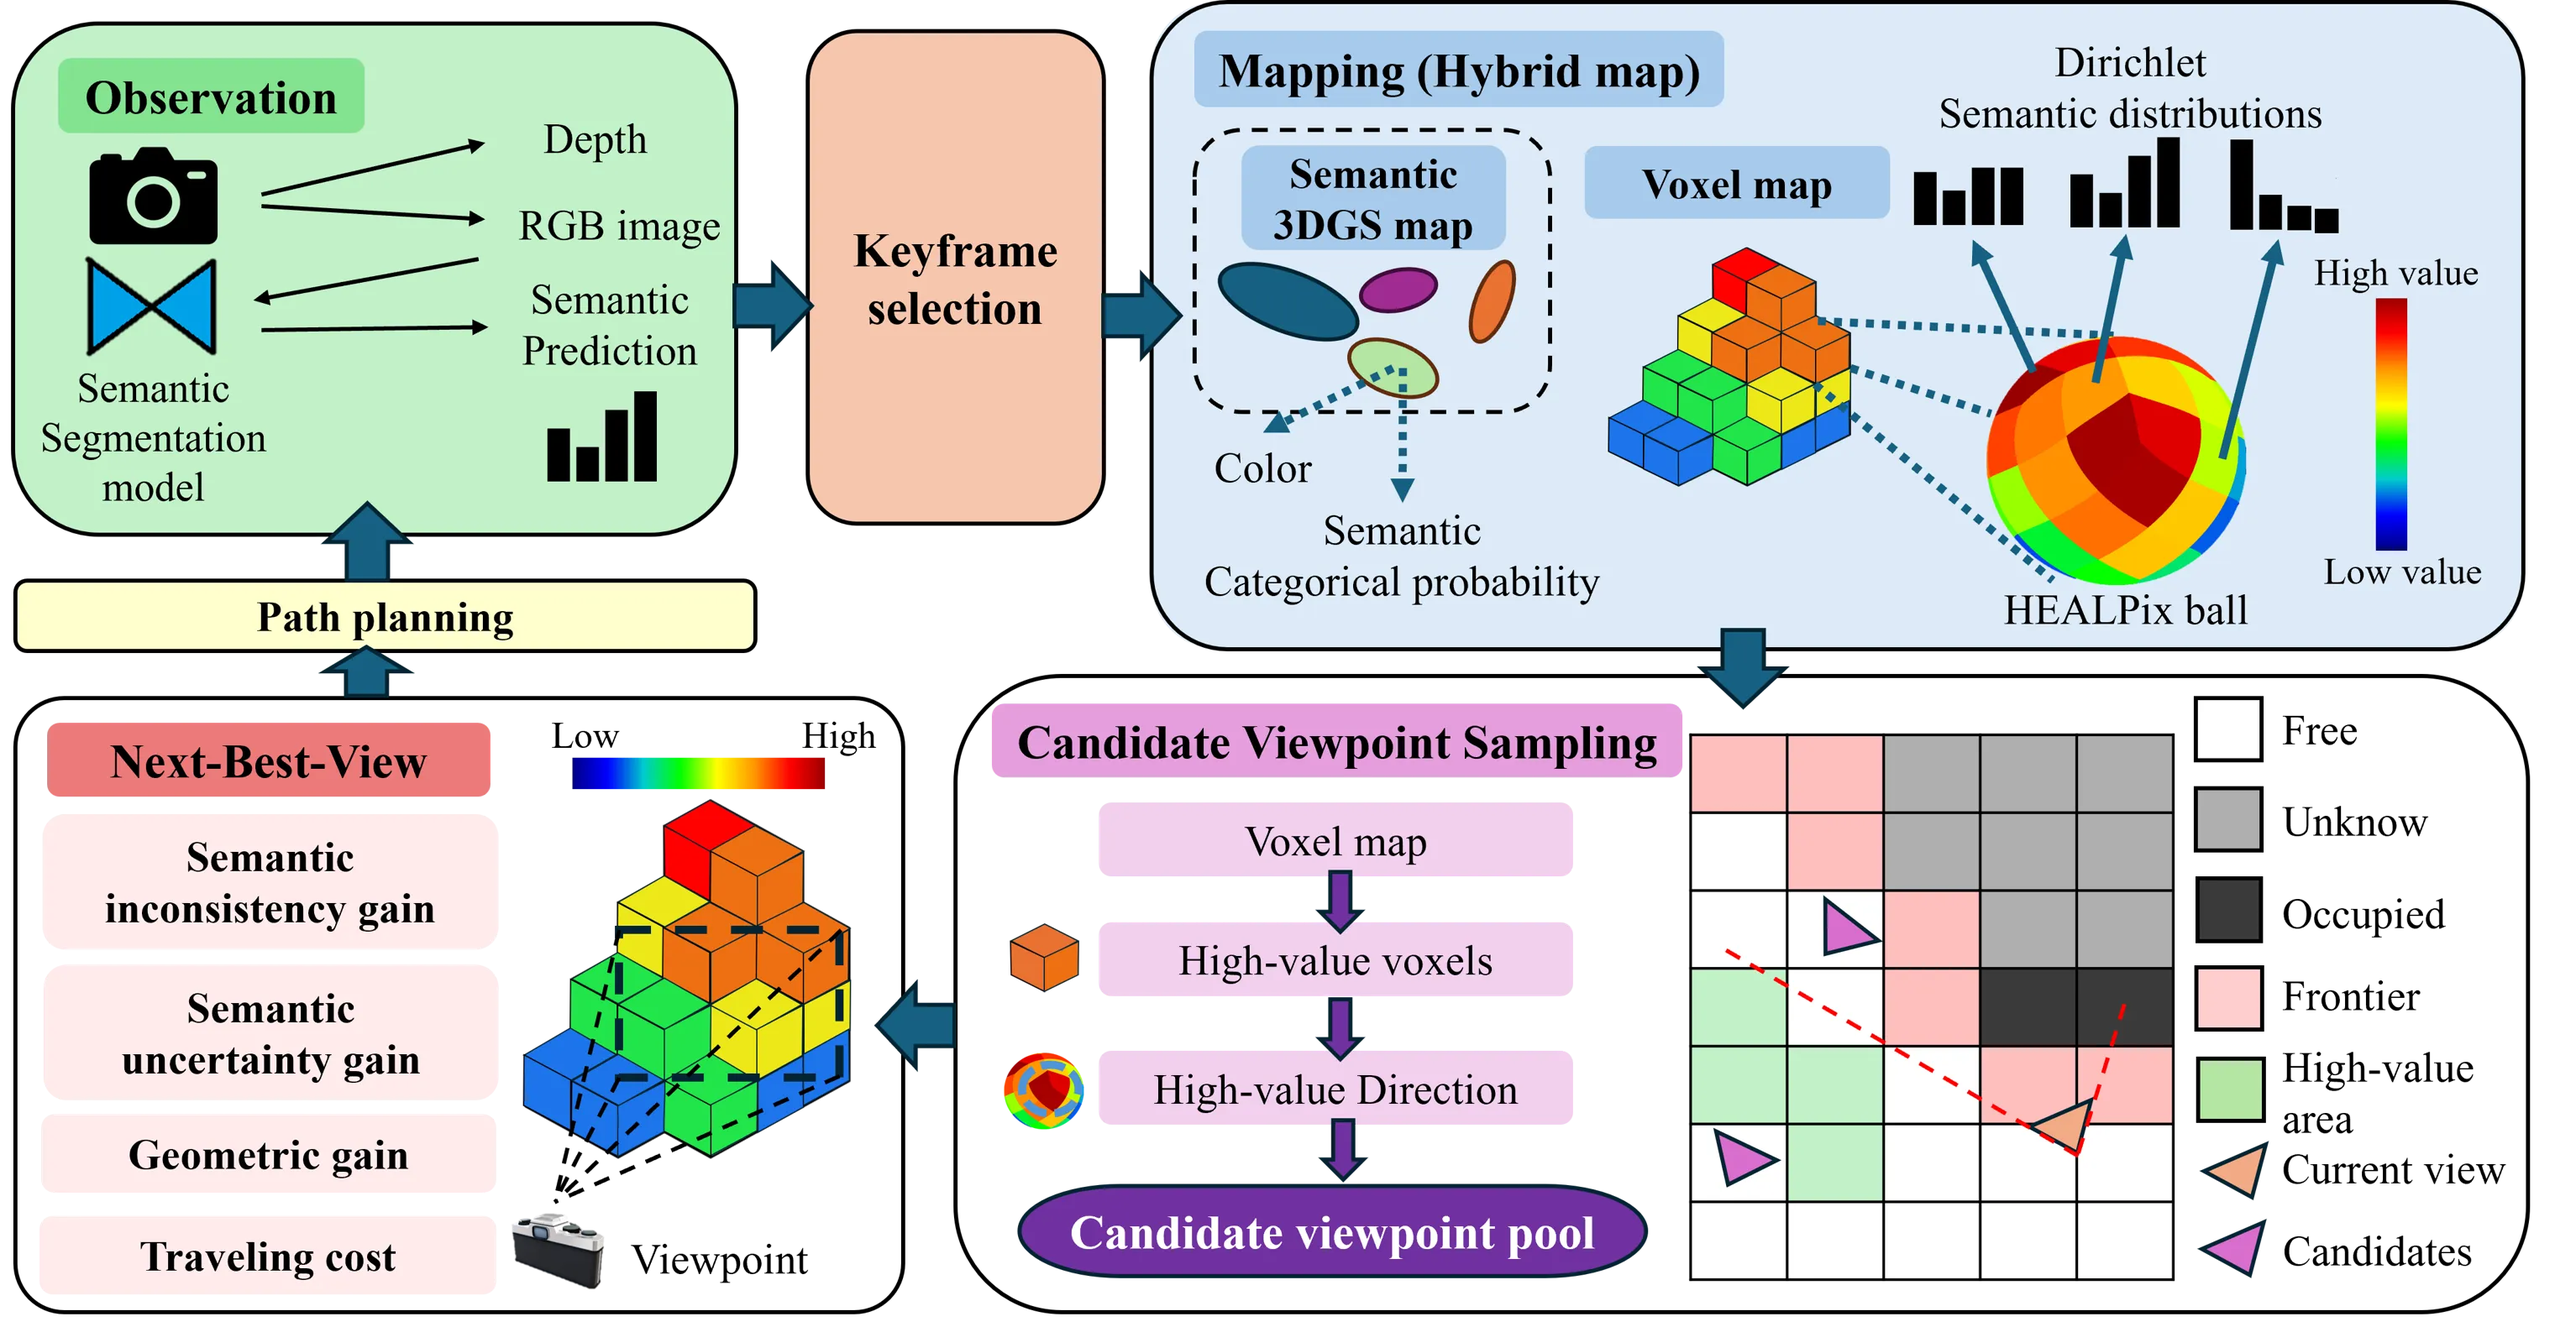
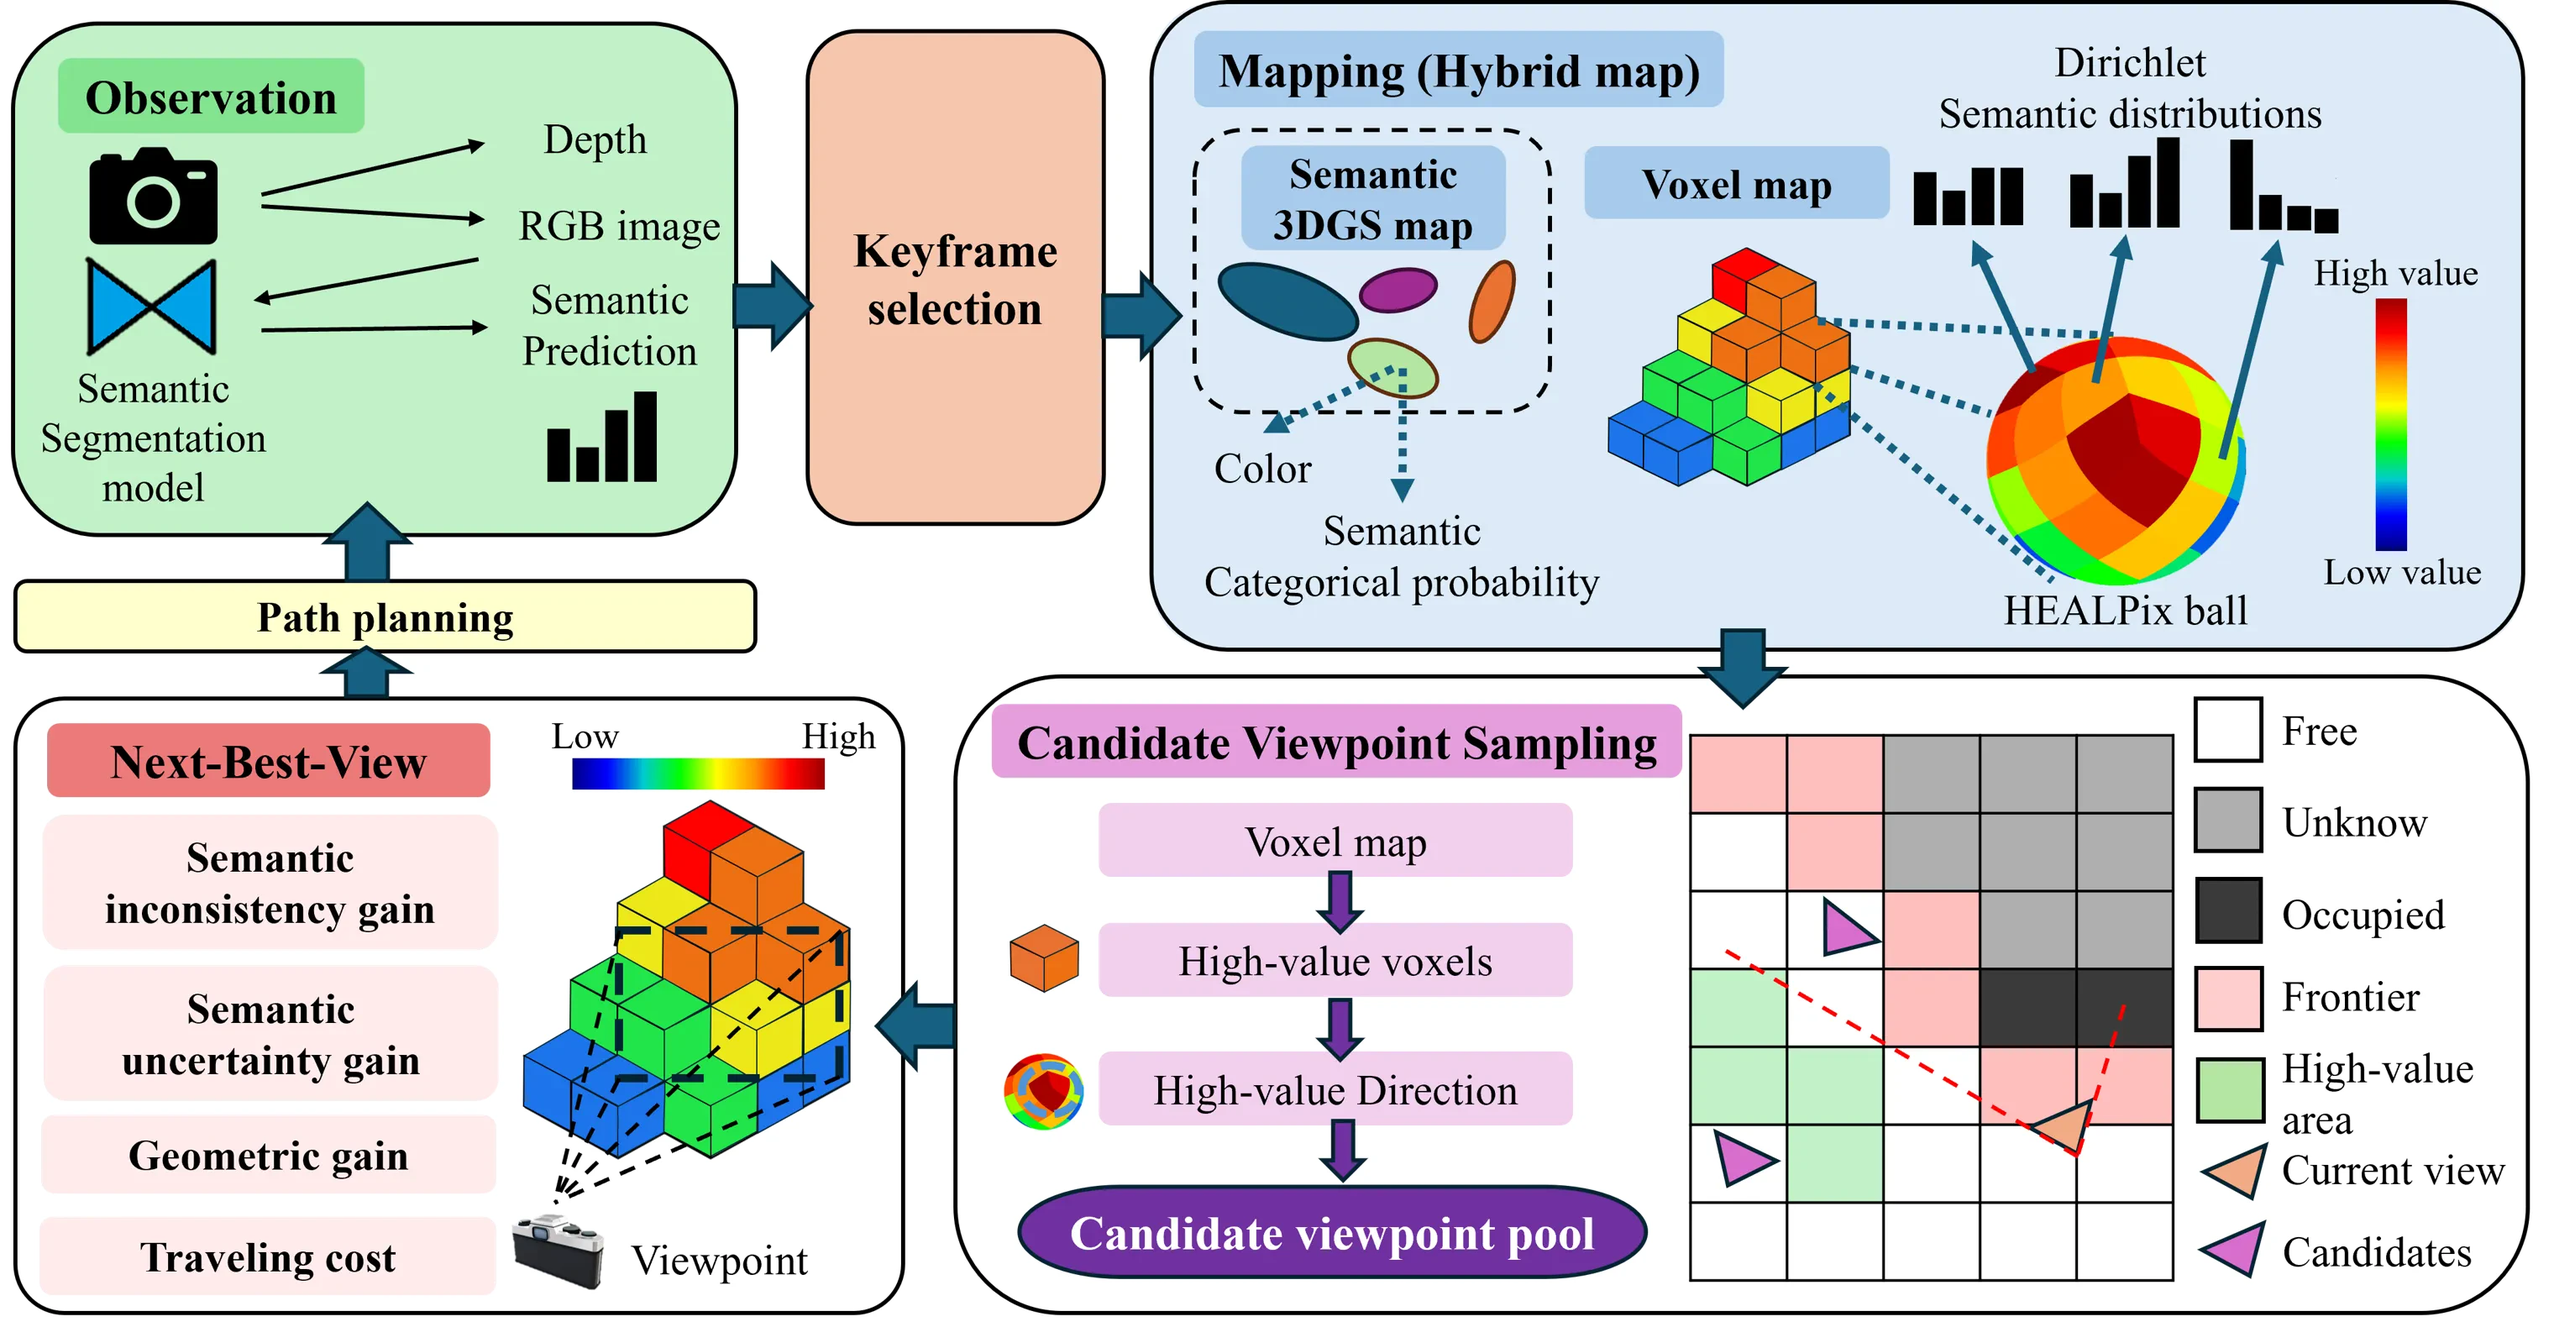
update README

diff --git a/docs/index.html b/docs/index.html
@@ -5,7 +5,7 @@
     <meta name="viewport" content="width=device-width, initial-scale=1" />
     <meta
       name="description"
-      content="ActiveSIGMA uses cross-view semantic inconsistency to guide active 3D Gaussian mapping. IROS 2026 Workshop on SeMaNa."
+      content="ActiveSIGMA uses cross-view semantic inconsistency to guide active 3D Gaussian mapping. IROS 2026 SeMaNa Workshop on Semantic-Aware Mapping and Navigation."
     />
     <meta name="theme-color" content="#f7f8fb" />
     <meta property="og:type" content="website" />
@@ -28,7 +28,9 @@
     <main id="main-content">
       <section class="hero" id="top">
         <div class="container">
-          <p class="eyebrow">IROS 2026 Workshop · SeMaNa</p>
+          <p class="eyebrow">
+            <a href="https://federicorollo.github.io/SeMaNa-Workshop/">IROS 2026 Workshop · SeMaNa: Semantic-Aware Mapping and Navigation</a>
+          </p>
           <h1>ActiveSIGMA</h1>
           <p class="subtitle">Semantic Inconsistency-Guided Active Mapping</p>
 
@@ -110,8 +112,8 @@
               <img
                 src="./assets/images/method/method_overview.webp"
                 alt="ActiveSIGMA pipeline, from observation and hybrid mapping to candidate viewpoint sampling and next-best-view selection"
-                width="3067"
-                height="1581"
+                width="3066"
+                height="1580"
               />
             </a>
             <figcaption>
@@ -262,6 +264,23 @@
               Download poster
             </a>
           </div>
+        </div>
+      </section>
+
+      <section id="acknowledgements">
+        <div class="container">
+          <div class="section-heading">
+            <h2>Acknowledgements</h2>
+          </div>
+          <p class="acknowledgement-copy">
+            ActiveSIGMA is derived from and substantially builds on ActiveSGM. We also thank the authors of
+            <a href="https://github.com/facebookresearch/habitat-sim">Habitat-Sim</a>,
+            <a href="https://github.com/oppo-us-research/ActiveGAMER">ActiveGAMER</a>,
+            <a href="https://github.com/SHI-Labs/OneFormer">OneFormer</a>,
+            <a href="https://github.com/spla-tam/SplaTAM">SplaTAM</a>,
+            <a href="https://github.com/sharinka0715/semantic-gaussians">Semantic Gaussians</a>, and
+            <a href="https://github.com/ShuhongLL/SGS-SLAM">SGS-SLAM</a>. Please refer to the paper for complete references and attribution.
+          </p>
         </div>
       </section>
 

diff --git a/docs/css/style.css b/docs/css/style.css
@@ -109,6 +109,17 @@ img {
   text-transform: uppercase;
 }
 
+.eyebrow a {
+  color: inherit;
+  text-decoration: none;
+}
+
+.eyebrow a:hover,
+.eyebrow a:focus-visible {
+  color: var(--blue);
+  text-decoration: underline;
+}
+
 h1,
 h2,
 h3,
@@ -241,6 +252,13 @@ h3 {
   color: var(--muted);
   font-size: clamp(1.03rem, 1.8vw, 1.16rem);
   line-height: 1.85;
+}
+
+.acknowledgement-copy {
+  max-width: 900px;
+  margin: 0 auto;
+  color: var(--muted);
+  text-align: center;
 }
 
 .contribution-heading {

diff --git a/README.md b/README.md
@@ -7,7 +7,7 @@
   <a href="https://jimmy94828.github.io/ActiveSIGMA/files/activesigma-poster.pdf">Poster</a>
 </p>
 
-> IROS 2026 Workshop on SeMaNa
+> IROS 2026 Workshop — [SeMaNa: Semantic-Aware Mapping and Navigation — Towards Cognitive and Adaptive Robots](https://federicorollo.github.io/SeMaNa-Workshop/)
 
 This repository is an implementation of ActiveSIGMA: Semantic Inconsistency-Guided Active Mapping, derived from the ActiveSGM codebase with a SplaTAM-based semantic Gaussian mapping backend. The main planner is `src/planner/semantic_heat_planner.py` and the main entry point is `src/main/activesgm.py`.
 
@@ -18,18 +18,6 @@ This repository is an implementation of ActiveSIGMA: Semantic Inconsistency-Guid
 </p>
 
 ActiveSIGMA preserves direction-conditioned semantic evidence in a hybrid Gaussian–voxel map, converts cross-view inconsistency into directional exploration heat, and uses it to guide candidate generation and next-best-view selection.
-
-## Project page
-
-The static project page is located in [`docs/`](docs/) and includes the paper, supplementary material, poster, method overview, and qualitative results. To preview it locally:
-
-```bash
-python -m http.server 8000 --directory docs
-```
-
-Then open <http://localhost:8000>. For GitHub Pages, configure the publishing source as the `main` branch and `/docs` directory.
-
-This repository is intended for Linux research workstations with an NVIDIA GPU; datasets, pretrained models, and generated results are not included.
 
 ## 1. Requirements
 
@@ -198,7 +186,7 @@ SemanticHeat uses these Hugging Face checkpoints. Transformers downloads them on
 
 The machine must be able to access Hugging Face. For an offline setup, download the checkpoints first and replace the checkpoint names in the selected configuration files with local paths.
 
-## 8. Run SemanticHeat
+## 8. Run ActiveSIGMA
 
 Activate the environment and run from the repository root or call the runner with its path. The runners resolve the project root from their own location.
 
@@ -289,7 +277,7 @@ If you find ActiveSIGMA useful in your research, please cite:
 @inproceedings{hsu2026activesigma,
   title={ActiveSIGMA: Semantic Inconsistency-Guided Active Mapping},
   author={Hsu, Wei-Chen and Cai, Zheng-Xu and Yeh, Yen-Ku and Huang, Ching-Chun},
-  booktitle={IROS 2026 Workshop on SeMaNa},
+  booktitle={IROS 2026 Workshop on Semantic-Aware Mapping and Navigation (SeMaNa): Towards Cognitive and Adaptive Robots},
   year={2026}
 }
 ```
